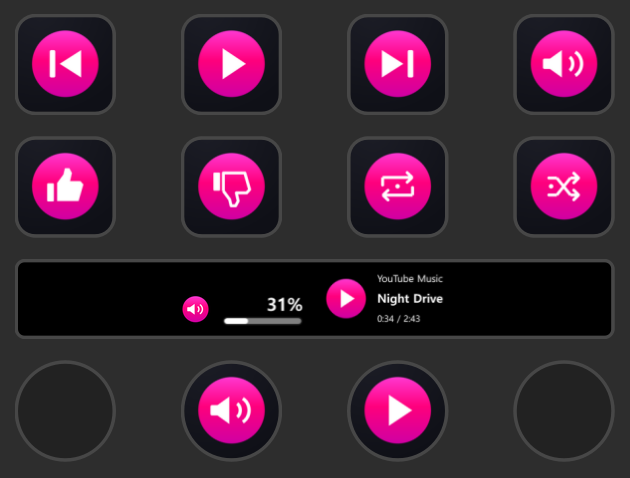
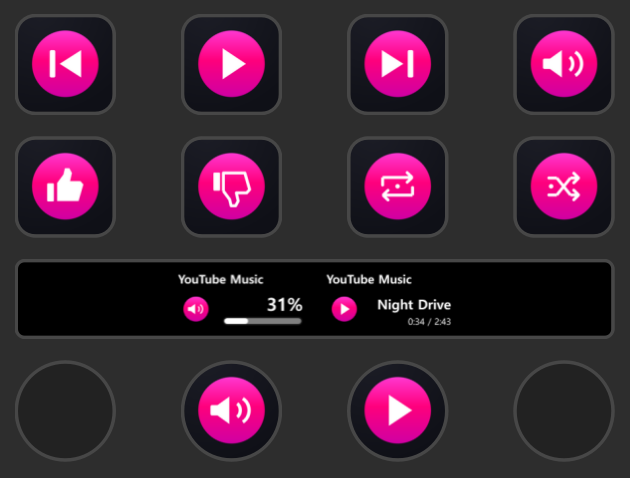
docs: show both dial headings in the Marketplace gallery

Changed region(s): [[0.5127, 0.5565, 0.7238, 0.7029], [0.2714, 0.5565, 0.4222, 0.6736]]

diff --git a/docs/verification/media.md b/docs/verification/media.md
@@ -41,11 +41,13 @@ Separately, on Windows Stream Deck 7.6.1.23033 with build `394b941`, the existin
 
 The [five gallery drafts](../../store-assets/drafts/v1.3.0/README.md) follow the layout, background colors and typography of the [published Marketplace gallery](https://marketplace.elgato.com/product/music-deck-bridge-044e81d9-9671-4277-bcb9-ce8b6d38c3fd). Revision `40b4245` records the product-photo draft. Revision `1dcf495` records the Stream Deck + app captures with the installed `394b941` plugin, including its eight-key linked artwork.
 
-The overview and controls slides use the [edited Stream Deck + profile capture](../../store-assets/drafts/v1.3.0/media/stream-deck-controls-profile-touch-strip.png) at native size. Its Current Track panel uses a Windows Stream Deck 7.6.1.23033 capture of the updated plugin with sample playback. Its Volume icon uses the transparent plugin asset at the size shown in the original app capture. Pixel comparisons confirmed both slides match the edited profile crop inside the rounded corners. The controls slide also shows a 5 × 3 MK.2 sample. The linked artwork slide shows nine linked keys on MK.2 and a central 4 × 4 artwork block on XL, with action icons and unassigned keys on both profiles. Render checks confirmed each linked key received a distinct crop from the plugin's album tile renderer. A pixel comparison confirmed that the centered artwork revision only changed the XL panel. [Elgato device comparison](https://help.elgato.com/hc/en-us/articles/4422903730573-Elgato-Stream-Deck-Device-Comparison)
+The overview and controls slides use the [edited Stream Deck + profile capture](../../store-assets/drafts/v1.3.0/media/stream-deck-controls-profile-touch-strip.png) at native size. Its Volume and Current Track panels use a single Windows Stream Deck 7.6.1.23033 capture with the updated layout and sample playback. Pixel comparisons confirmed both slides match the edited profile crop inside the rounded corners. The controls slide also shows a 5 × 3 MK.2 sample. The linked artwork slide shows nine linked keys on MK.2 and a central 4 × 4 artwork block on XL, with action icons and unassigned keys on both profiles. Render checks confirmed each linked key received a distinct crop from the plugin's album tile renderer. A pixel comparison confirmed that the centered artwork revision only changed the XL panel. [Elgato device comparison](https://help.elgato.com/hc/en-us/articles/4422903730573-Elgato-Stream-Deck-Device-Comparison)
 
 The before-and-after Windows app captures confirmed that the Current Track feedback lost the dark rectangle around the icon. The prior installed plugin was restored after the check. SDK tests and the Chromium preview checked the volume and mute feedback. The Windows capture establishes app preview output for Current Track. Physical touch-strip output was outside the verification scope.
 
 For the three-mode revision, temporary sample bundles supplied the same song and cover to Song name, Icon + song name and Album artwork in the native Windows app. The controls slide uses unscaled crops of the three displays. Both text formats showed the YouTube Music heading and playback time. SDK and Chromium inspector fixtures separately exercised settings changes and persistence. The Windows installation returned to the original bundle and its saved-track file matched the pre-test checksum.
+
+The original gallery sample profile had `ShowTitle: false` on the Volume Dial, which omitted the heading in the previous gallery. The revised Windows capture shows both dial titles with the same rendered dimensions and baseline. The colored portions of the volume and playback icons also measured the same size. The new crops for the two text modes preserve the native capture pixels. The installed bundle and layouts were restored after the capture, and the saved-track checksum matched. [Elgato built-in layout reference](https://docs.elgato.com/streamdeck/sdk/guides/dials/#built-in-layouts)
 
 The two playback popup panels were captured from the bundle's English UI with sample playback in paired and standalone modes. The connection slide captures the bundled property inspector and popup settings using sample PIN `123456` and default port `17864`. Each settings panel has a 24-pixel margin on all four sides. Pixel checks confirmed that the content pixels match the captures and layout checks verified that the PIN and port controls fit in the crop. The YouTube Music panel uses cropped Chrome and YouTube Music UI from a designated Windows playback window with the same original cover and sample title composited into it. Account controls, bookmarks and the original album cover were kept outside the export. The five English RGB PNGs were checked at 1920 × 960 and visually reviewed against the published design.
 

diff --git a/store-assets/drafts/v1.3.0/README.md b/store-assets/drafts/v1.3.0/README.md
@@ -19,7 +19,7 @@ Chrome 이미지 두 장은 `394b941`과 동일한 제품 소스의 임시 1.3.0
 
 Elgato 갤러리 초안은 모두 영어 1920 × 960 PNG입니다. 공개 갤러리의 배경과 제목 스타일을 따릅니다. Stream Deck +는 앱 프로필 캡처에 투명 터치 스트립 아이콘을 반영했고, MK.2와 XL은 각 기기의 키 배열에 맞춘 프로필 예시입니다. 제품 아이콘은 [기존 288 × 288 PNG](../../elgato/listing/app-icon-288.png)를 사용합니다. [Elgato 갤러리 기준](https://docs.elgato.com/guidelines/products/#gallery) · [이미지 출처 및 검증](../../../docs/verification/media.md#november-28-revised-130-elgato-gallery)
 
-1. [제품 소개](elgato-gallery-01-overview-1920x960.png) — Stream Deck 플러그인과 Chrome 확장 프로그램을 `+`로 묶고 `→`로 YouTube Music과 연결합니다. 현재 곡 다이얼에 **YouTube Music** 제목을 표시합니다.
+1. [제품 소개](elgato-gallery-01-overview-1920x960.png) — Stream Deck 플러그인과 Chrome 확장 프로그램을 `+`로 묶고 `→`로 YouTube Music과 연결합니다. 볼륨 다이얼과 현재 곡 다이얼에 같은 스타일로 **YouTube Music**을 표시합니다.
 2. [Stream Deck 키 기능](elgato-gallery-02-controls-1920x960.png) — MK.2와 Stream Deck +의 재생, 반복·셔플, 볼륨·평가 매핑과 현재 곡 다이얼의 세 가지 화면을 보여줍니다.
 3. [연결 방법](elgato-gallery-03-connection-1920x960.png) — Stream Deck과 Chrome 확장의 설정 화면에 여백을 두어 예시 PIN, 로컬 서버 포트와 버튼이 모두 보이도록 했습니다. 마지막에 YouTube Music 브라우저를 보여줍니다.
 4. [Chrome 단독 제어](elgato-gallery-04-chrome-1920x960.png) — 확장 팝업과 YouTube Music 브라우저를 함께 보여줍니다.
